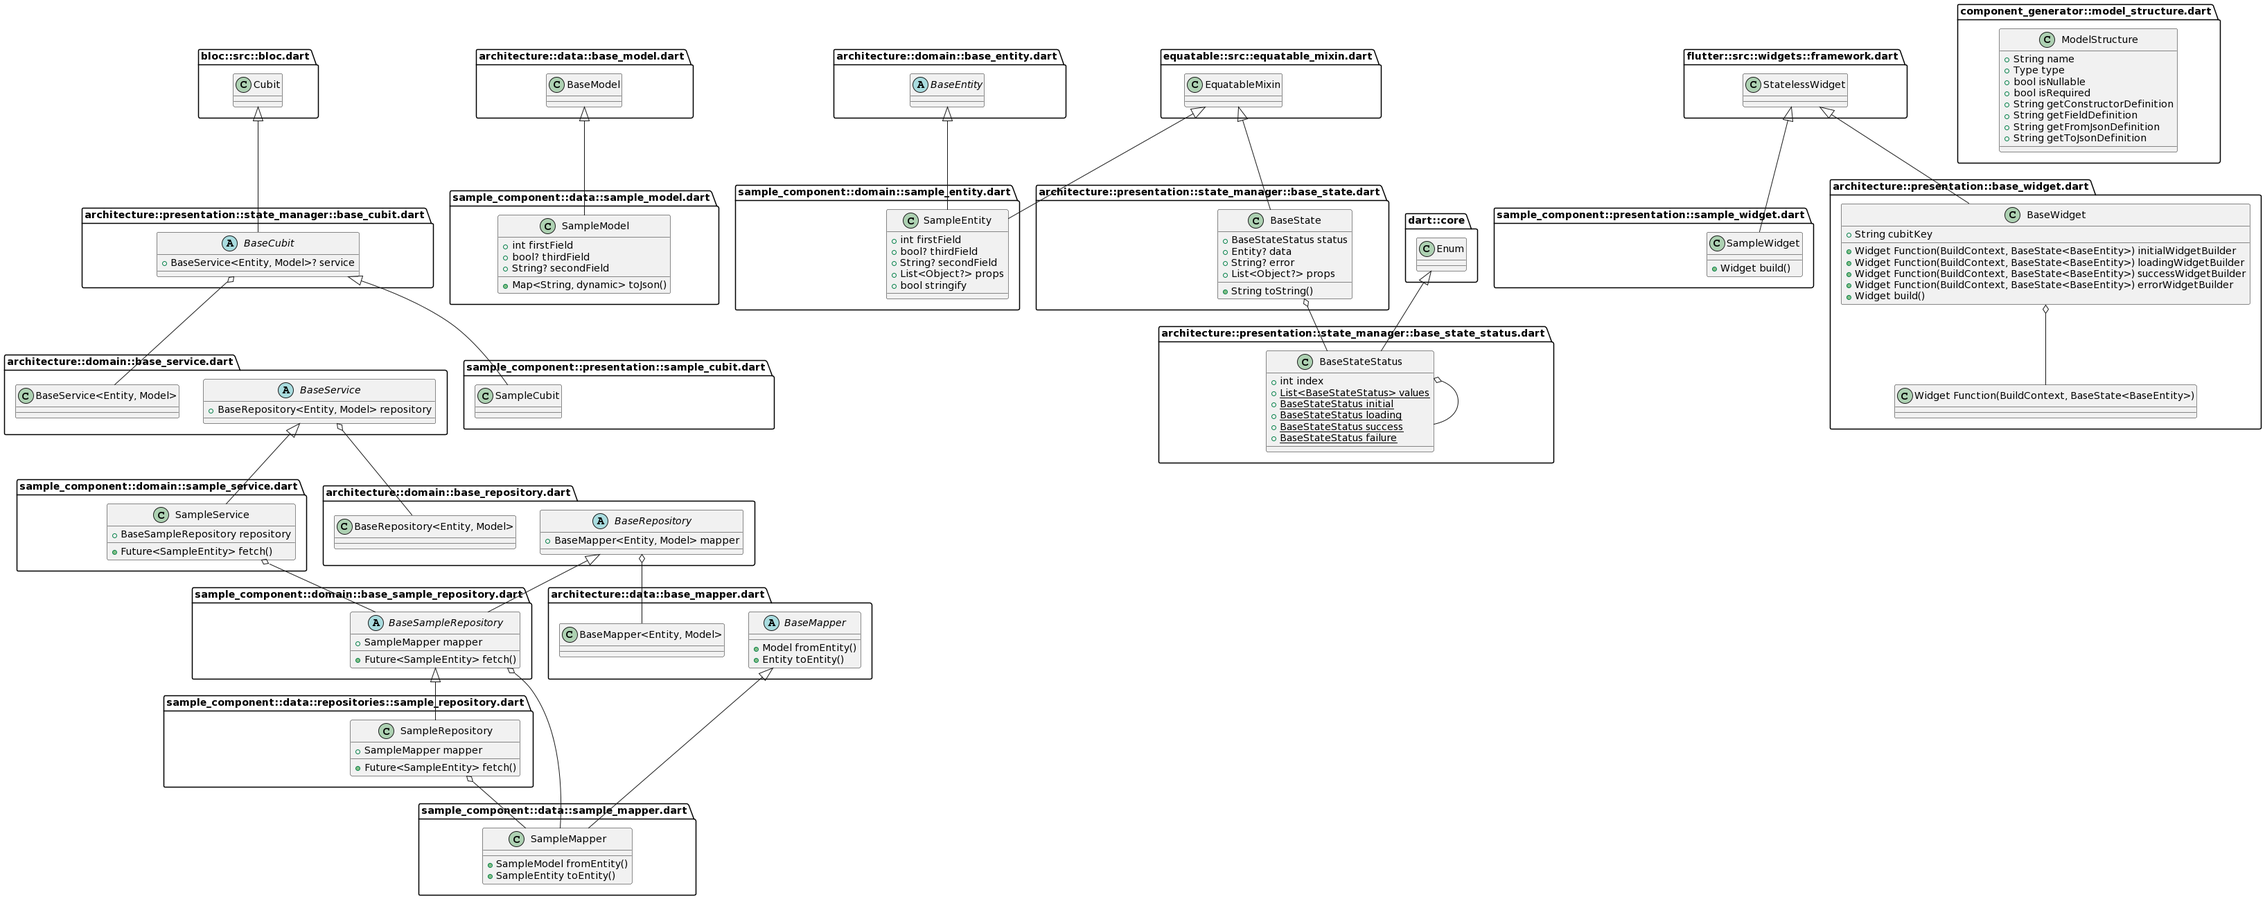
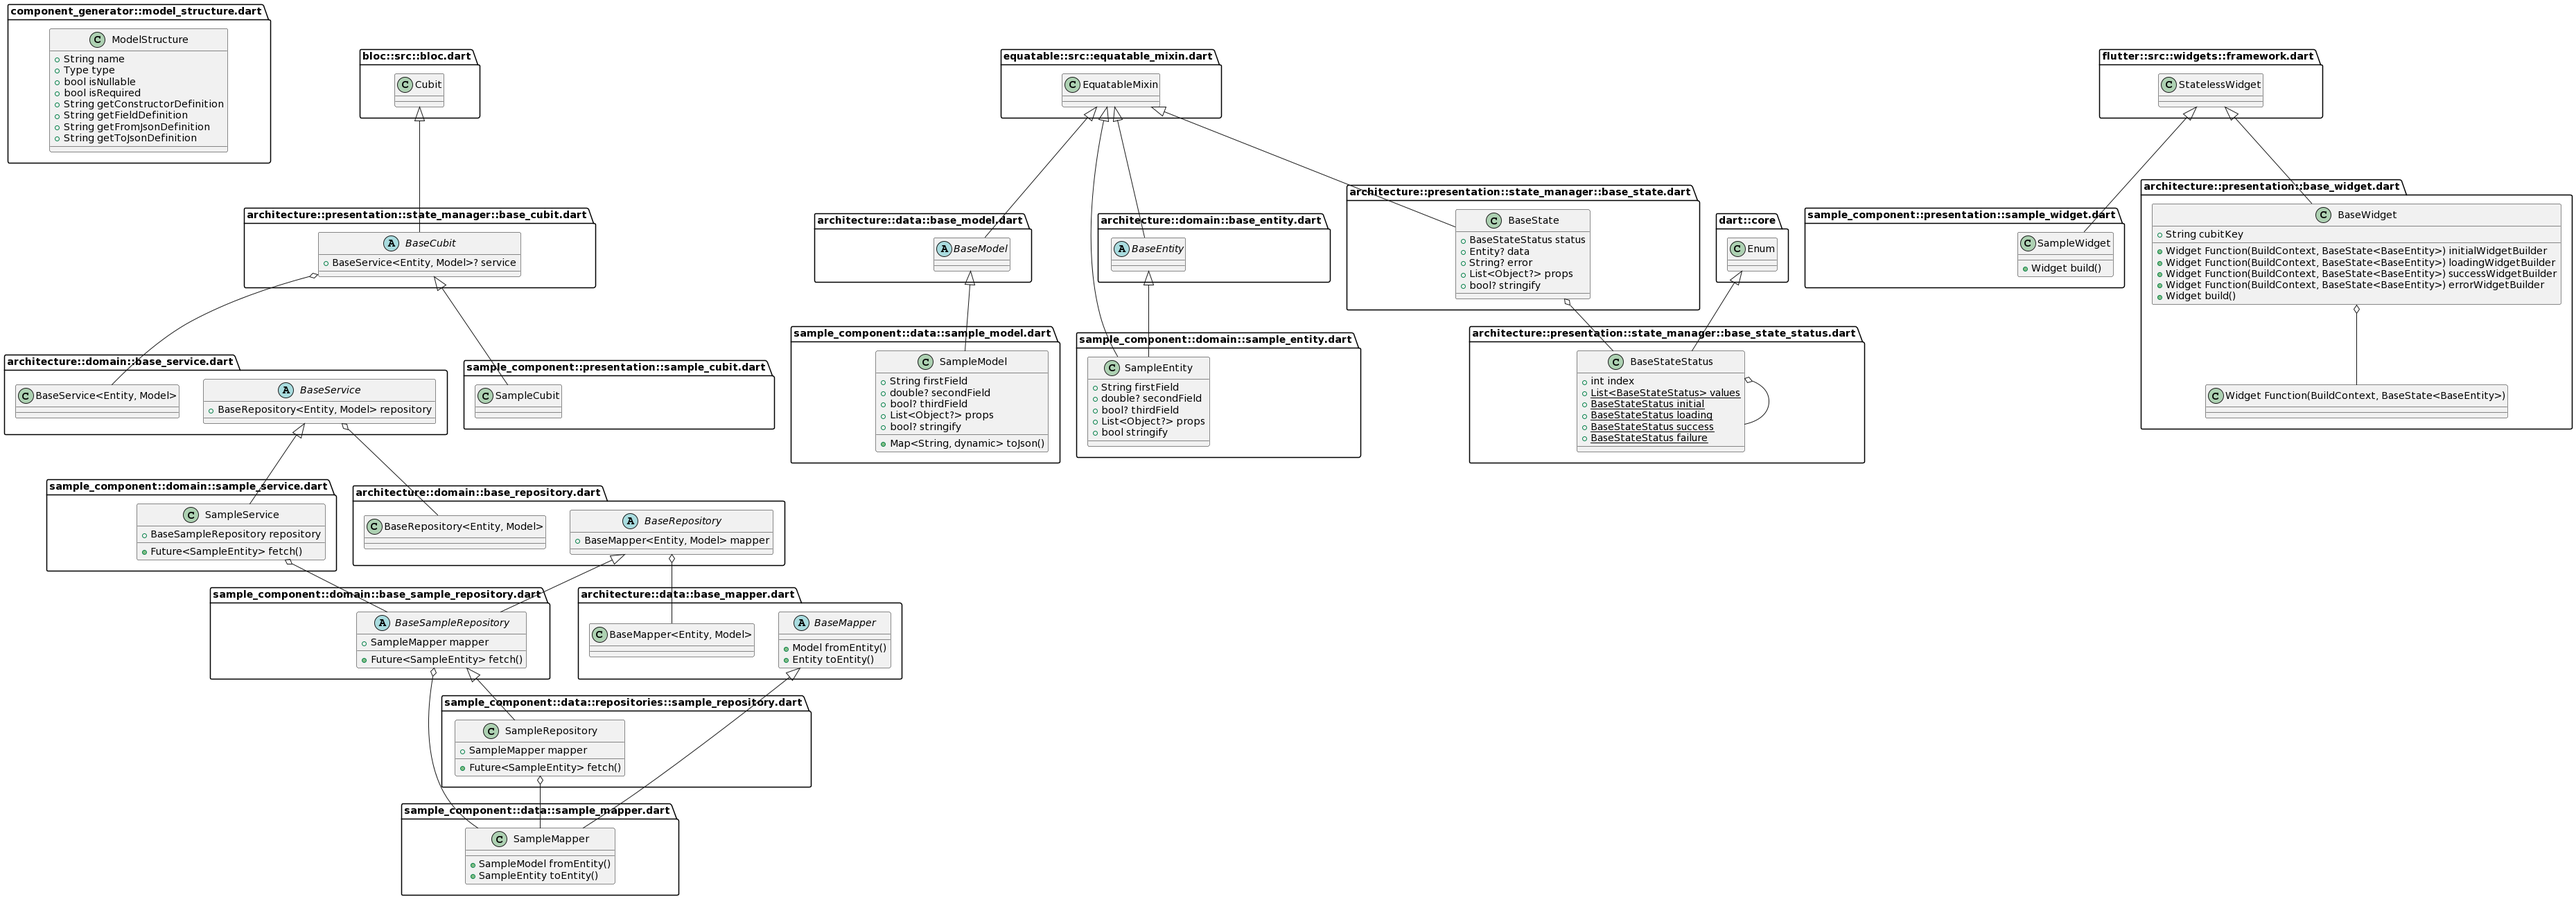
refactor base model and entity

diff --git a/lib/component_generator/generator.dart b/lib/component_generator/generator.dart
@@ -39,6 +39,8 @@ String getModelStructure({
         ${_generateFields(modelStructures)}
 
         ${_generateToJson(name: name, modelStructures: modelStructures)}
+
+        ${_getEquatableMixinMethods(modelStructures)}
       }
     ''';
 
@@ -106,21 +108,15 @@ String getEntityStructure({
   required List<ModelStructure> modelStructures,
 }) =>
     '''
-      import 'package:equatable/equatable.dart';
-
       import 'package:flutter_app_architecture/components.dart';
 
       /// ${name.toSentenceCase} entity.
-      class ${name}Entity with EquatableMixin implements BaseEntity {
+      class ${name}Entity implements BaseEntity {
         ${_generateConstructor(name: name, modelStructures: modelStructures, isModel: false)}
 
         ${_generateFields(modelStructures)}
 
-        @override
-        List<Object?> get props => <Object?>[${getToString(modelStructures)}];
-
-        @override
-        bool get stringify => true; 
+        ${_getEquatableMixinMethods(modelStructures)}
       }
     ''';
 
@@ -257,8 +253,7 @@ String _generateFields(List<ModelStructure> modelStructures) {
   return '$body';
 }
 
-/// Gets entity structure.
-String getToString(List<ModelStructure> modelStructures) {
+String _getSeparatedFieldNames(List<ModelStructure> modelStructures) {
   modelStructures.sortModelStructures();
 
   return modelStructures
@@ -269,3 +264,11 @@ String getToString(List<ModelStructure> modelStructures) {
             '$previousValue${previousValue == '' ? '' : ', '}$element',
       );
 }
+
+String _getEquatableMixinMethods(List<ModelStructure> modelStructures) => '''
+    @override
+    List<Object?> get props => <Object?>[${_getSeparatedFieldNames(modelStructures)}];
+
+    @override
+    bool get stringify => true; 
+  ''';

diff --git a/example/lib/show_user_information_component/domain/show_user_information_entity.dart b/example/lib/show_user_information_component/domain/show_user_information_entity.dart
@@ -1,9 +1,7 @@
-import 'package:equatable/equatable.dart';
-
 import 'package:flutter_app_architecture/components.dart';
 
 /// Show user information entity.
-class ShowUserInformationEntity with EquatableMixin implements BaseEntity {
+class ShowUserInformationEntity implements BaseEntity {
   /// Initializes [ShowUserInformationEntity].
   ShowUserInformationEntity({
     required this.name,

diff --git a/lib/architecture/presentation/state_manager/base_state.dart b/lib/architecture/presentation/state_manager/base_state.dart
@@ -20,9 +20,5 @@ class BaseState<Entity extends BaseEntity> with EquatableMixin {
   List<Object?> get props => <Object?>[data, status, error];
 
   @override
-  String toString() => '''
-      status: $status,
-      state: $data,
-      error: $error
-    ''';
+  bool? get stringify => true;
 }

diff --git a/example/lib/show_user_information_component/data/show_user_information_model.dart b/example/lib/show_user_information_component/data/show_user_information_model.dart
@@ -30,4 +30,10 @@ class ShowUserInformationModel implements BaseModel {
 
     return json;
   }
+
+  @override
+  List<Object?> get props => <Object?>[birthdate, name];
+
+  @override
+  bool get stringify => true;
 }

diff --git a/lib/architecture/domain/base_entity.dart b/lib/architecture/domain/base_entity.dart
@@ -1,2 +1,4 @@
+import 'package:equatable/equatable.dart';
+
 /// Base class for all component entities.
-abstract class BaseEntity {}
+abstract class BaseEntity with EquatableMixin {}

diff --git a/lib/architecture/data/base_model.dart b/lib/architecture/data/base_model.dart
@@ -1,2 +1,4 @@
+import 'package:equatable/equatable.dart';
+
 /// Base class for all component models.
-class BaseModel {}
+abstract class BaseModel with EquatableMixin {}

diff --git a/README.md b/README.md
@@ -13,6 +13,6 @@
 ## Getting Started
 
 ```
-$ dcli compile 'lib/component_generator/generator.dart'
-$ lib/component_generator/generator
+$ dcli compile 'lib/component_generator/builder.dart'
+$ lib/component_generator/builder
 ```
